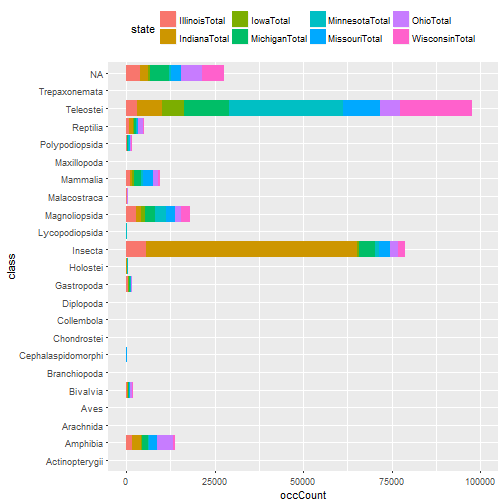
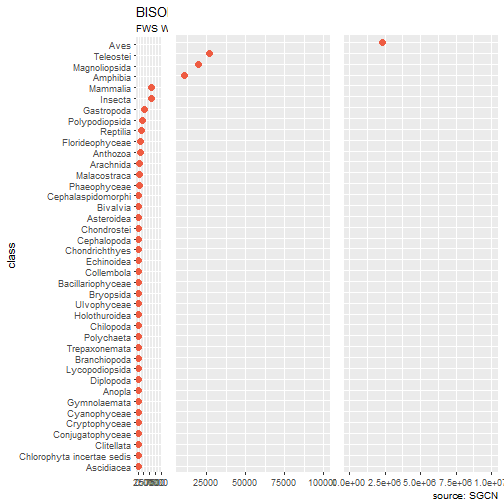
Updated SGCN-BISON notebook. Region 1

diff --git a/BISON_SGCN_Mashup_Notebook_FWSR1.md b/BISON_SGCN_Mashup_Notebook_FWSR1.md
@@ -1,0 +1,237 @@
+BISON - SGCN Data Mashup Report  
+Abby Benson  
+January 17, 2018  
+
+
+```r
+# Data for this notebook was brought together and managed using the R script BISON_SGCN_Mashup.R
+```
+
+## General information about the data
+The data contained in this report are a combination of the Species of Greatest Conservation Need (SGCN) as identified by the states in Fish
+and Wildlife Service Wildlife and Sport Fish Restoration Program Region 1. SGCN lists were collated by USGS and matched to the Integrated 
+Taxonomic Information System (ITIS), the World Register of Marine Species (WoRMS), Fish and Wildlife Service listing status information, 
+and the NatureServe database. Species that were not found in ITIS or WoRMS are not considered part of the SGCN National List but are still 
+included in this analysis.
+
+
+
+
+### Number of Species of Greatest Conservation Need in Fish and Wildlife Service Region 3:
+
+
+```r
+nrow(FWSRegion1_list)
+```
+
+```
+## [1] 1858
+```
+
+
+### Number of SGCN that are considered Endangered, Threatened, Candidate, or Under Review by the Fish and Wildlife Service:
+
+
+```r
+nrow(FWSRegion1_list[which(FWSRegion1_list$ListingStatus == "Candidate" | FWSRegion1_list$ListingStatus == "Endangered" | 
+                                FWSRegion1_list$ListingStatus == "Threatened" | 
+                                FWSRegion1_list$ListingStatus == "Under Review in the Candidate or Petition Process"),])
+```
+
+```
+## [1] 528
+```
+
+
+### BISON Occurrence Data Available for these SGCN grouped by the Class level of the taxonomic heirarchy
+
+
+```r
+p1 <- ggplot(r1, aes(x=class, y=Total)) + 
+  geom_point(stat = "identity") +
+  geom_point(col="tomato2", size=3) +   # Draw points
+  geom_segment(aes(x=class, 
+                   xend=class, 
+                   y=min(Total), 
+                   yend=max(Total)), 
+               linetype="dashed", 
+               size=0.1) +   # Draw dashed lines
+  labs(title="BISON occurrences of SGCN", 
+       subtitle="FWS WSFR Region 1", 
+       caption="") +  
+  theme(axis.title.x = element_blank()) +
+  ylim(0,10000) +
+  coord_flip()
+
+p2 <- ggplot(r1, aes(x=class, y=Total)) + 
+  geom_point(stat = "identity") +
+  geom_point(col="tomato2", size=3) +   # Draw points
+  geom_segment(aes(x=class, 
+                   xend=class, 
+                   y=min(Total), 
+                   yend=max(Total)), 
+               linetype="dashed", 
+               size=0.1) + 
+  labs(title="", 
+       subtitle="", 
+       caption="") + 
+  theme(axis.title.y = element_blank(),
+        axis.text.y=element_blank(),
+        axis.ticks.y=element_blank(),
+        axis.title.x = element_blank()) +
+  ylim(10001,100000) +
+  coord_flip()
+
+p3 <- ggplot(r1, aes(x=class, y=Total)) + 
+  geom_point(stat = "identity") +
+  geom_point(col="tomato2", size=3) +   # Draw points
+  geom_segment(aes(x=class, 
+                   xend=class, 
+                   y=min(Total), 
+                   yend=max(Total)), 
+               linetype="dashed", 
+               size=0.1) +
+  labs(title="", 
+       subtitle="", 
+       caption="source: SGCN") + 
+  theme(axis.title.y = element_blank(),
+        axis.text.y=element_blank(),
+        axis.ticks.y=element_blank(),
+        axis.title.x = element_blank()) +
+  ylim(100001,10000000) + 
+  coord_flip()
+
+grid.arrange(p1, p2, p3, ncol=3)
+```
+
+```
+## Warning: Removed 4 rows containing missing values (geom_point).
+
+## Warning: Removed 4 rows containing missing values (geom_point).
+```
+
+```
+## Warning: Removed 40 rows containing missing values (geom_segment).
+```
+
+```
+## Warning: Removed 37 rows containing missing values (geom_point).
+
+## Warning: Removed 37 rows containing missing values (geom_point).
+```
+
+```
+## Warning: Removed 40 rows containing missing values (geom_segment).
+```
+
+```
+## Warning: Removed 39 rows containing missing values (geom_point).
+
+## Warning: Removed 39 rows containing missing values (geom_point).
+```
+
+```
+## Warning: Removed 40 rows containing missing values (geom_segment).
+```
+
+![plot of chunk unnamed-chunk-4](figure/unnamed-chunk-4-1.png)
+
+
+Two-way table shows the counts of observations for different taxonomic classes of the Species of Greatest Conservation Need in FWS WSFR
+Region 3. 
+
+
+```r
+r1_twoway %>% 
+  kable(align = 'c') %>%
+  kable_styling(bootstrap_options = c("striped", "hover"))
+```
+
+```
+## Currently generic markdown table using pandoc is not supported.
+```
+
+
+
+|           class            | Idaho  | Oregon | Washington | Hawaii | Guam | AmericanSamoa | VirginIslands | PuertoRico | NMariananIslands |  Total  |
+|:--------------------------:|:------:|:------:|:----------:|:------:|:----:|:-------------:|:-------------:|:----------:|:----------------:|:-------:|
+|         Ascidiacea         |   0    |   0    |     0      |   0    |  0   |       0       |       0       |     0      |        0         |    0    |
+| Chlorophyta incertae sedis |   0    |   0    |     0      |   0    |  0   |       0       |       0       |     0      |        0         |    0    |
+|         Clitellata         |   0    |   0    |     0      |   0    |  0   |       0       |       0       |     0      |        0         |    0    |
+|      Conjugatophyceae      |   0    |   0    |     0      |   0    |  0   |       0       |       0       |     0      |        0         |    0    |
+|       Cryptophyceae        |   0    |   0    |     0      |   0    |  0   |       0       |       0       |     0      |        0         |    0    |
+|        Cyanophyceae        |   0    |   0    |     0      |   0    |  0   |       0       |       0       |     0      |        0         |    0    |
+|        Gymnolaemata        |   0    |   0    |     0      |   1    |  0   |       0       |       0       |     0      |        0         |    1    |
+|           Anopla           |   0    |   0    |     0      |   3    |  0   |       0       |       0       |     0      |        0         |    3    |
+|         Diplopoda          |   0    |   0    |     1      |   0    |  0   |       0       |       0       |     2      |        0         |    3    |
+|       Lycopodiopsida       |   0    |   0    |     0      |   8    |  0   |       0       |       0       |     0      |        0         |    8    |
+|        Branchiopoda        |   0    |   11   |     0      |   0    |  0   |       0       |       0       |     0      |        0         |   11    |
+|       Trepaxonemata        |   0    |   0    |     0      |   2    |  0   |      11       |       0       |     0      |        0         |   13    |
+|         Polychaeta         |   0    |   0    |     0      |   16   |  0   |       0       |       0       |     0      |        0         |   16    |
+|         Chilopoda          |   4    |   8    |     3      |   0    |  0   |       4       |       0       |     0      |        0         |   19    |
+|       Holothuroidea        |   0    |   0    |     0      |   18   |  0   |       1       |       0       |     0      |        1         |   20    |
+|        Ulvophyceae         |   0    |   0    |     0      |   23   |  0   |       0       |       0       |     0      |        0         |   23    |
+|         Bryopsida          |   0    |   4    |     17     |   7    |  0   |       0       |       0       |     0      |        0         |   28    |
+|     Bacillariophyceae      |   0    |   19   |     16     |   17   |  0   |       0       |       0       |     0      |        0         |   52    |
+|         Collembola         |   9    |   13   |     30     |   11   |  0   |       0       |       0       |     0      |        0         |   63    |
+|         Echinoidea         |   0    |   9    |     11     |   41   |  0   |       4       |       0       |     0      |        0         |   65    |
+|       Chondrichthyes       |   0    |   0    |     70     |   8    |  0   |       0       |       0       |     0      |        0         |   78    |
+|        Cephalopoda         |   0    |   0    |     7      |   97   |  4   |       4       |       0       |     0      |        2         |   114   |
+|        Chondrostei         |  103   |   28   |     3      |   0    |  0   |       0       |       0       |     0      |        0         |   134   |
+|         Asteroidea         |   0    |   38   |    152     |   43   |  0   |       0       |       0       |     0      |        0         |   233   |
+|          Bivalvia          |   23   |   66   |     98     |   68   |  15  |      28       |       0       |     0      |        12        |   310   |
+|     Cephalaspidomorphi     |   0    |  292   |     50     |   0    |  0   |       0       |       0       |     0      |        0         |   342   |
+|        Phaeophyceae        |   0    |   7    |     31     |  405   |  0   |       0       |       0       |     0      |        0         |   443   |
+|        Malacostraca        |   5    |   27   |     55     |  309   |  4   |      42       |       0       |     0      |        20        |   462   |
+|         Arachnida          |  249   |  152   |    337     |   10   |  0   |       0       |       0       |     0      |        0         |   748   |
+|          Anthozoa          |   0    |   2    |     1      |  649   |  75  |      164      |       0       |     14     |        7         |   912   |
+|      Florideophyceae       |   0    |   0    |     3      |  1200  |  0   |      11       |       0       |     0      |        13        |  1227   |
+|          Reptilia          |  352   |  287   |    799     |   46   |  0   |      49       |       0       |     11     |       107        |  1651   |
+|       Polypodiopsida       |   0    |   36   |     5      |  1752  |  1   |       1       |       0       |     3      |        0         |  1798   |
+|         Gastropoda         |  244   |  353   |    109     |  2016  |  56  |      28       |       1       |     7      |        28        |  2842   |
+|          Insecta           |  1223  |  1757  |    2291    |   60   |  0   |       0       |       0       |    234     |        0         |  5565   |
+|          Mammalia          |  493   |  2150  |    2588    |  342   |  0   |       9       |       7       |     28     |        16        |  5633   |
+|          Amphibia          |  601   |  6345  |    4104    |   0    |  0   |       0       |       0       |     0      |        0         |  11050  |
+|       Magnoliopsida        |  153   |  1420  |    395     | 17366  |  5   |      12       |      14       |    209     |        22        |  19596  |
+|         Teleostei          |  5010  |  6358  |   14036    |  1241  |  7   |      37       |       0       |     3      |        6         |  26698  |
+|            Aves            | 145676 | 475605 |   673533   | 952470 | 565  |      305      |     16868     |   15207    |       4619       | 2284848 |
+
+
+Maybe as a stacked bar chart instead?
+
+
+```r
+r1_gather <- gather(r1, key = "state", value = "occCount", -class)
+r1_gather <- r1_gather[which(r1_gather$state != "classtotal" & r1_gather$state != "Total"),]
+r1_1_gather <- r1_gather[which(r1_gather$class != "Aves"),]
+r1_2_gather <- r1_gather[which(r1_gather$class == "Aves"),]
+g1 <- ggplot(r1_1_gather, aes(class, occCount))
+g1 + geom_bar(aes(fill = state), position = position_stack(reverse = TRUE), stat = "identity") +
+  coord_flip() +
+  theme(legend.position = "top") + ylim(0,7500) #doesn't show Aves
+```
+
+```
+## Warning: Removed 2 rows containing missing values (position_stack).
+```
+
+```
+## Warning: Removed 4 rows containing missing values (geom_bar).
+```
+
+![plot of chunk unnamed-chunk-6](figure/unnamed-chunk-6-1.png)
+
+```r
+# Need to figure out a better way to represent Aves for this type of figure
+# g1_2 <- ggplot(r1_2_gather, aes(class, occCount))
+# g1_2 + geom_bar(aes(fill = state), position = position_stack(reverse = TRUE), stat = "identity") +
+#   coord_flip() +
+#   theme(legend.position = "top")
+
+#grid.arrange(g1, g1_2) # not working, puts the classes on the x axis and occCount on the y axis (flips things)
+
+# How should we represent class = NA?
+
+#knitr::spin('C:/Users/albenson/Documents/SWAPs/DataAnalysis/BISON_SGCN_Mashup/BISON_SGCN_Mashup_Notebook.R')
+```
+
